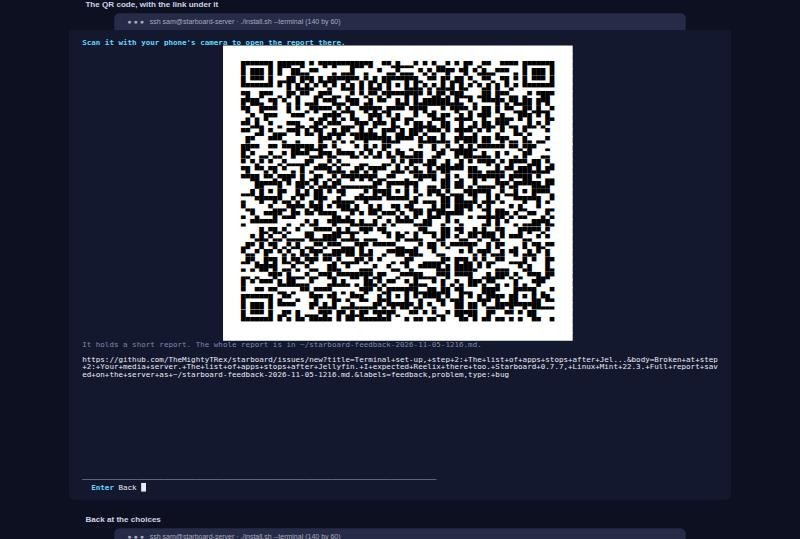
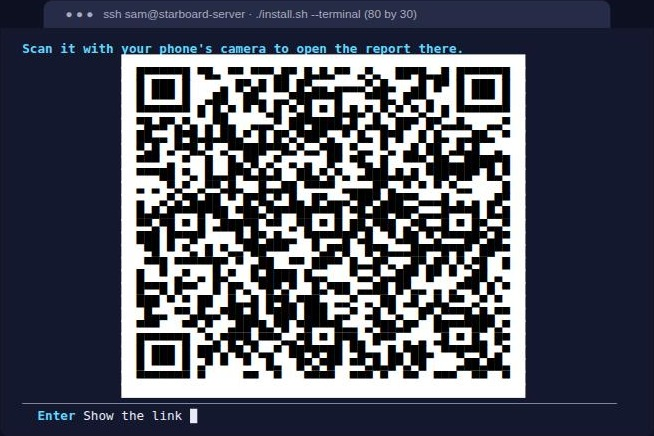
README: terminal pictures cropped to the terminal, and the current QR view

diff --git a/README.md b/README.md
@@ -47,7 +47,7 @@ hidden), the apps for your media server with their folders and VPN details, and 
 | | |
 |---|---|
 | ![The terminal set-up at 80 by 24: the heading box and progress bar at the top, the menu on the bottom line, and the step between them](docs/screenshots/terminal-setup.jpg) | ![Feedback from the terminal: a QR code drawn in the terminal, with the link under it](docs/screenshots/terminal-feedback-qr.jpg) |
-| **The terminal set-up** in an 80 by 24 window | **Feedback** sent as a QR code |
+| **The terminal set-up** in an 80 by 24 window | **Feedback** as a QR code, in an 80 by 30 window |
 
 ## Reelix
 
